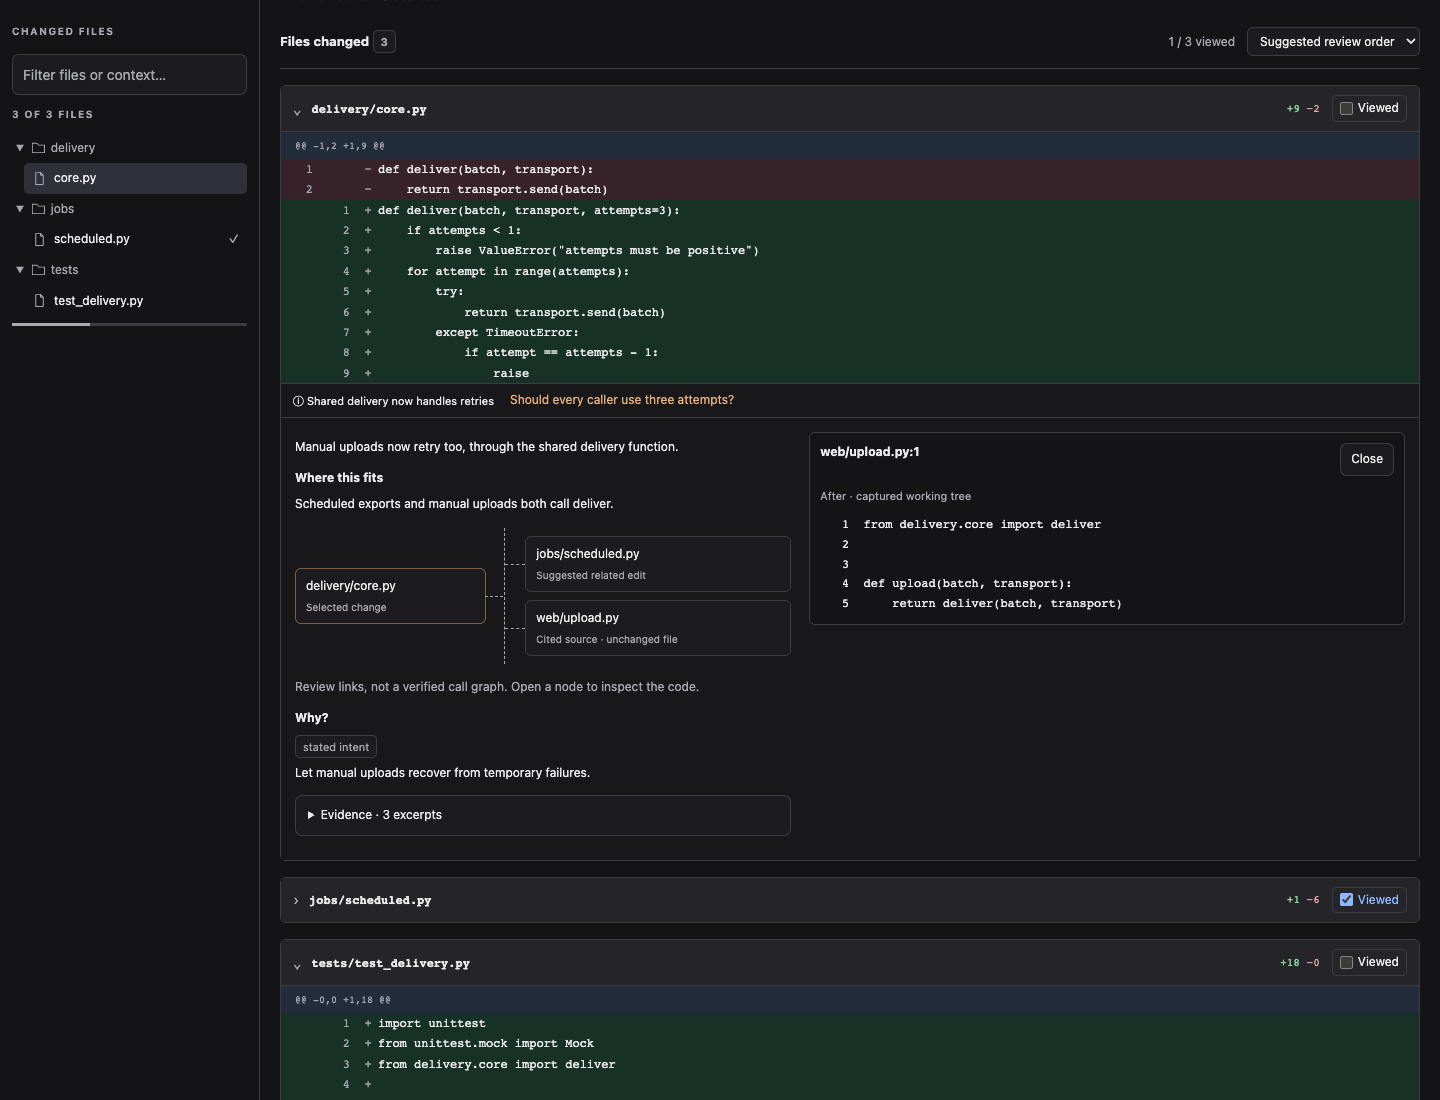
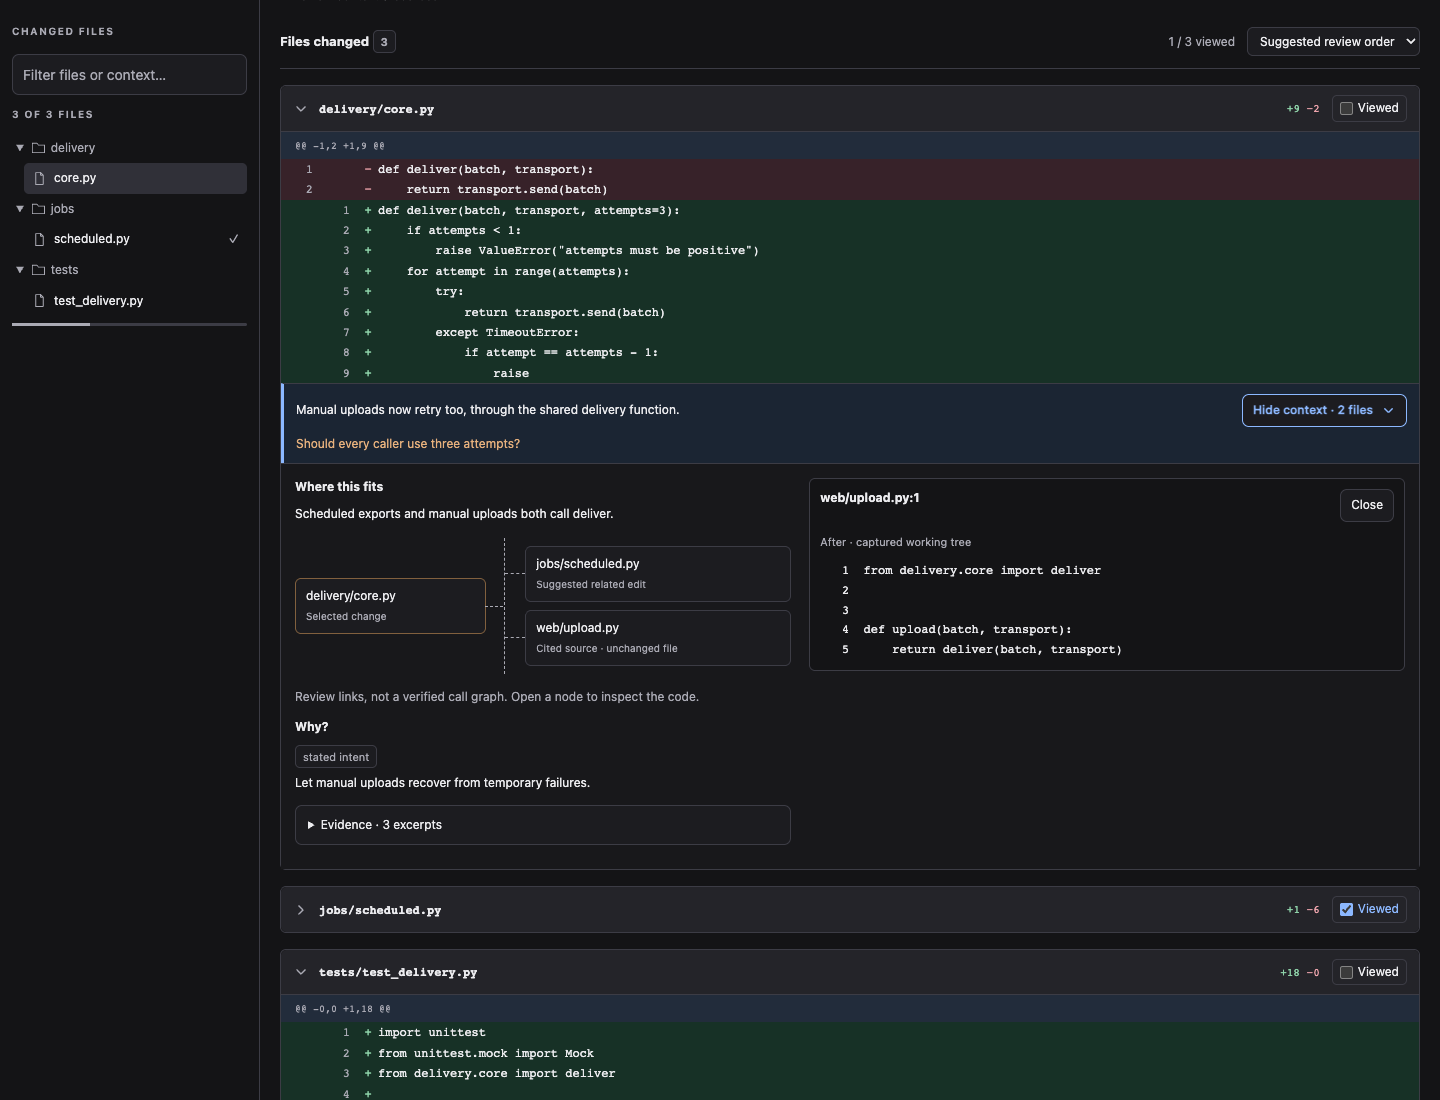
Improve review controls, light-mode contrast, and context discovery (#3)
* Fix review chevrons and strengthen light-mode contrast

* Make review context visible and easy to explore

diff --git a/viewer.html b/viewer.html
@@ -19,6 +19,7 @@
         color-scheme: dark;
         --link: #8cb8ff;
         --range: #222c3b;
+        --context-tint: #1b2533;
         --paper: #141416;
         --surface: #1c1c20;
         --panel: #18181b;
@@ -44,28 +45,31 @@
       :root[data-theme="light"] {
         color-scheme: light;
         --link: #245baf;
-        --range: #e9eff8;
-        --paper: #faf9f6;
-        --surface: #fff;
-        --panel: #f5f5f0;
-        --subtle: #f0f2ed;
-        --hover: #e9ede6;
-        --selected: #ebece6;
-        --ink: #262a2b;
-        --muted: #626e66;
-        --summary: #535c58;
-        --line: #e4e6e1;
+        --range: #dce7f5;
+        --context-tint: #e6edf8;
+        --paper: #e9edf2;
+        --surface: #f8fafc;
+        --panel: #eef1f5;
+        --subtle: #dde3eb;
+        --hover: #d5dde7;
+        --selected: #d3dfef;
+        --ink: #202733;
+        --muted: #526071;
+        --summary: #414e5f;
+        --line: #bac4d0;
         --accent: #99501c;
         --tint: #fbf0e3;
         --accent-line: #c79b6f;
-        --green: #236a4f;
-        --red: #a33e47;
-        --add: #eaf5ed;
-        --del: #fbeef0;
-        --line-number: #66796b;
-        --code-surface: #f7f8f4;
-        --shadow: #202a2820;
-        --backdrop: #16231c66;
+        --green: #176236;
+        --red: #8b2737;
+        --add: #c8ecd1;
+        --del: #f4cdd2;
+        --add-gutter: #b1dfbd;
+        --del-gutter: #ebb4bc;
+        --line-number: #3f4d5c;
+        --code-surface: #f8fafc;
+        --shadow: #20273320;
+        --backdrop: #20273366;
       }
       * {
         box-sizing: border-box;
@@ -377,12 +381,13 @@
         text-align: left;
         padding: 0;
       }
-      .file-toggle::before {
-        content: "⌄";
-        color: var(--muted);
+      .file-toggle .chevron {
+        width: 16px;
+        height: 16px;
+        transform: rotate(90deg);
       }
-      .is-collapsed .file-toggle::before {
-        content: "›";
+      .is-collapsed .file-toggle .chevron {
+        transform: none;
       }
       .is-collapsed .file-header {
         border-bottom: 0;
@@ -476,6 +481,7 @@
       .code {
         overflow-x: auto;
         padding: 0;
+        background: var(--code-surface);
       }
       .code-line {
         display: grid;
@@ -495,6 +501,20 @@
       .code-line.del {
         background: var(--del);
       }
+      .code-line.add .line-number,
+      .code-line.add .sign {
+        background: var(--add-gutter, var(--add));
+      }
+      .code-line.del .line-number,
+      .code-line.del .sign {
+        background: var(--del-gutter, var(--del));
+      }
+      .code-line.add .sign {
+        color: var(--green);
+      }
+      .code-line.del .sign {
+        color: var(--red);
+      }
       .line-number {
         color: var(--line-number);
         text-align: right;
@@ -510,24 +530,51 @@
         white-space: pre;
       }
       .annotation-bar {
-        display: flex;
+        display: grid;
+        grid-template-columns: minmax(0, 1fr) auto;
         align-items: center;
-        flex-wrap: wrap;
-        gap: 5px 16px;
-        padding: 6px 12px;
+        gap: 8px 16px;
+        padding: 10px 12px;
         border-top: 1px solid var(--line);
-        background: var(--panel);
+        border-left: 3px solid var(--link);
+        background: var(--context-tint);
         font-size: 12px;
       }
-      .annotation-bar .context-button {
-        background: none;
-        padding: 2px 0;
-        color: var(--muted);
-      }
-      .important .annotation-bar .context-button {
+      .context-takeaway {
+        margin: 0;
         color: var(--ink);
+        overflow-wrap: anywhere;
+      }
+      .annotation-bar .hint {
+        grid-column: 2;
+        justify-self: end;
+      }
+      .annotation-bar .context-button {
+        display: flex;
+        align-items: center;
+        gap: 8px;
+        background: var(--surface);
+        border: 1px solid var(--link);
+        padding: 6px 10px;
+        color: var(--link);
+        font-size: 12px;
+        font-weight: 550;
+      }
+      .annotation-bar .context-button:hover {
+        background: var(--hover);
+      }
+      .context-button .chevron {
+        color: inherit;
+      }
+      .context-button[aria-expanded="true"] .chevron {
+        transform: rotate(90deg);
+      }
+      .annotation-bar .peek {
+        left: auto;
+        right: 0;
       }
       .check {
+        grid-column: 1 / -1;
         margin: 0;
         color: var(--accent);
         font-size: 12px;
@@ -715,6 +762,17 @@
         }
       }
       @media (max-width: 600px) {
+        .annotation-bar {
+          grid-template-columns: minmax(0, 1fr);
+        }
+        .annotation-bar .hint {
+          grid-column: 1;
+          justify-self: start;
+        }
+        .annotation-bar .peek {
+          left: 0;
+          right: auto;
+        }
         .snapshot-badge {
           display: none;
         }
@@ -1044,6 +1102,11 @@
           .map((line, i) => String(e.start + i).padStart(4) + "  " + line)
           .join("\n");
       }
+      function takeaway(a) {
+        if (!a || a.importance === "mechanical") return "";
+        if (a.what.length <= 160 && a.what.trim()) return a.what;
+        return a.title.length <= 80 ? a.title : "";
+      }
       function context(h, a) {
         const root = el("div", undefined, "inline-context");
         root.id = "context-" + h.id;
@@ -1084,7 +1147,7 @@
           if (focus) preview.focus({ preventScroll: true });
         }
         if (a) {
-          if (a.what) body.append(el("p", a.what));
+          if (a.what && a.what !== takeaway(a)) body.append(el("p", a.what));
           const related = a.related_hunks
             .filter((id) => id !== h.id)
             .map((id) => hunkMap.get(id));
@@ -1202,29 +1265,63 @@
         card.append(code);
         const details = context({ ...h, file }, a);
         const bar = el("div", undefined, "annotation-bar");
+        const brief = takeaway(a);
+        if (brief) bar.append(el("p", brief, "context-takeaway"));
+        const relatedPaths = new Set(
+          [
+            ...(a?.related_hunks || []).map((id) => hunkMap.get(id).file.path),
+            ...S.evidence
+              .filter((e) => a?.evidence_ids.includes(e.id))
+              .map((e) => e.path),
+          ].filter((path) => path !== file.path),
+        );
+        const relatedCount = relatedPaths.size;
         const hint = el("div", undefined, "hint");
         const pin = button(
-          "ⓘ " + (a?.title || "Source context"),
+          "",
           () => {
             details.hidden = !details.hidden;
             if (details.hidden) expanded.delete(h.id);
             else expanded.add(h.id);
-            pin.setAttribute("aria-expanded", String(!details.hidden));
+            updateContextButton();
             hint.classList.add("dismissed");
           },
           "context-button",
         );
         pin.id = "peek-button-" + h.id;
-        pin.setAttribute(
-          "aria-label",
-          "Explore: " + (a?.title || h.symbol || file.path),
-        );
         pin.setAttribute("aria-controls", details.id);
-        pin.setAttribute("aria-expanded", String(!details.hidden));
+        function updateContextButton() {
+          const action = details.hidden
+            ? a
+              ? "Explore context"
+              : "View source"
+            : "Hide context";
+          const count = relatedCount
+            ? ` · ${relatedCount} ${relatedCount === 1 ? "file" : "files"}`
+            : "";
+          pin.replaceChildren(
+            document.createTextNode(action + count),
+            icon("chevron"),
+          );
+          pin.setAttribute(
+            "aria-label",
+            `${action + count}: ${a?.title || h.symbol || file.path}`,
+          );
+          pin.setAttribute("aria-expanded", String(!details.hidden));
+        }
+        updateContextButton();
         const peek = el("div", undefined, "peek");
         peek.id = "peek-" + h.id;
         peek.setAttribute("role", "tooltip");
-        peek.append(el("p", a?.what || "Open captured source excerpts."));
+        peek.append(
+          el(
+            "p",
+            a?.where ||
+              (brief
+                ? "Open rationale, related code, and supporting evidence."
+                : a?.what || "Open captured source excerpts."),
+          ),
+        );
         pin.setAttribute("aria-describedby", peek.id);
         hint.append(pin, peek);
         hint.addEventListener("keydown", (event) => {
@@ -1245,18 +1342,24 @@
           "svg",
         );
         svg.setAttribute("viewBox", "0 0 16 16");
-        svg.setAttribute("class", "icon");
+        svg.setAttribute("class", kind === "chevron" ? "icon chevron" : "icon");
         svg.setAttribute("aria-hidden", "true");
         const path = document.createElementNS(svg.namespaceURI, "path");
         path.setAttribute(
           "d",
-          kind === "folder"
-            ? "M1.5 3.5h5l1.5 2h6.5v8h-13z"
-            : "M4 1.5h5l3 3v10H4z M9 1.5v3h3",
+          {
+            folder: "M1.5 3.5h5l1.5 2h6.5v8h-13z",
+            file: "M4 1.5h5l3 3v10H4z M9 1.5v3h3",
+            chevron: "M6 4l4 4-4 4",
+          }[kind],
         );
         path.setAttribute("fill", "none");
         path.setAttribute("stroke", "currentColor");
         path.setAttribute("stroke-linejoin", "round");
+        if (kind === "chevron") {
+          path.setAttribute("stroke-width", "1.5");
+          path.setAttribute("stroke-linecap", "round");
+        }
         svg.append(path);
         return svg;
       }
@@ -1334,7 +1437,7 @@
           () => setCollapsed(!collapsedFiles.has(file.id)),
           "file-toggle",
         );
-        toggle.append(el("span", file.path, "file-title"));
+        toggle.append(icon("chevron"), el("span", file.path, "file-title"));
         toggle.title = file.path;
         toggle.setAttribute("aria-controls", body.id);
         function setCollapsed(value) {

diff --git a/README.md b/README.md
@@ -14,7 +14,7 @@
 
 <p align="center">
   A Git diff with the context you need to make it yours.<br>
-  Hover for the explanation. Follow the evidence. Keep your place.
+  See the consequence. Follow the evidence. Keep your place.
 </p>
 
 <p align="center">
@@ -36,6 +36,8 @@ or Claude Desktop. No web server, database, npm install, or Python packages need
 **Dark by default.** Use the **Light / Dark** button in the header to switch themes.
 Your browser remembers your choice.
 
+Screenshots: [Dark](docs/assets/screenshot.png) · [Light](docs/assets/screenshot-light.png).
+
 > The screenshot shows the working viewer with a fictional delivery library.
 > This is an early, usable prototype; explanations are suggestions for your review.
 
@@ -44,14 +46,15 @@ Your browser remembers your choice.
 | While you read                 | What you get                                                                                                                                                                   |
 | ------------------------------ | ------------------------------------------------------------------------------------------------------------------------------------------------------------------------------ |
 | **Find the important parts**   | Scroll through every file in suggested review order: focus changes first, supporting changes next, mechanical changes last. Switch to file path order anytime.                 |
-| **Hover, then go deeper**      | A small context cue beneath the relevant code. Hover for the consequence; click for rationale and a local map of related code.                                                 |
+| **See context, then explore**  | A short consequence beneath the code, with a prominent **Explore context** button showing the related-file count. Open it for rationale, a local map, and evidence.            |
 | **Understand the reason**      | Rationale stays inside expandable context, labeled **stated intent**, **inferred**, or **unknown**.                                                                            |
 | **Check the evidence**         | Open captured source excerpts with file paths, line numbers, and before/after labels.                                                                                          |
 | **Follow the whole change**    | A directory tree follows your scroll. The context map links suggested related edits and cited sources, including unchanged files. Source excerpts open alongside the context.  |
 | **Pick up where you left off** | Mark a file **Viewed** to collapse all its changes. Expand it without clearing its marker. Progress is saved for that exact snapshot; older block-level progress is preserved. |
 
 New annotations have character budgets: a short overall summary, one takeaway per
-block, and a brief hover explanation. Specific review questions remain visible.
+block, and a brief explanation. Mechanical changes skip the upfront sentence.
+Specific review questions remain visible.
 Long summaries from older annotations remain available under **Review context & sources**.
 Suggested order reflects model annotations, not a verified risk score; unannotated
 blocks stay visible, and hunks within each file keep their source order.
